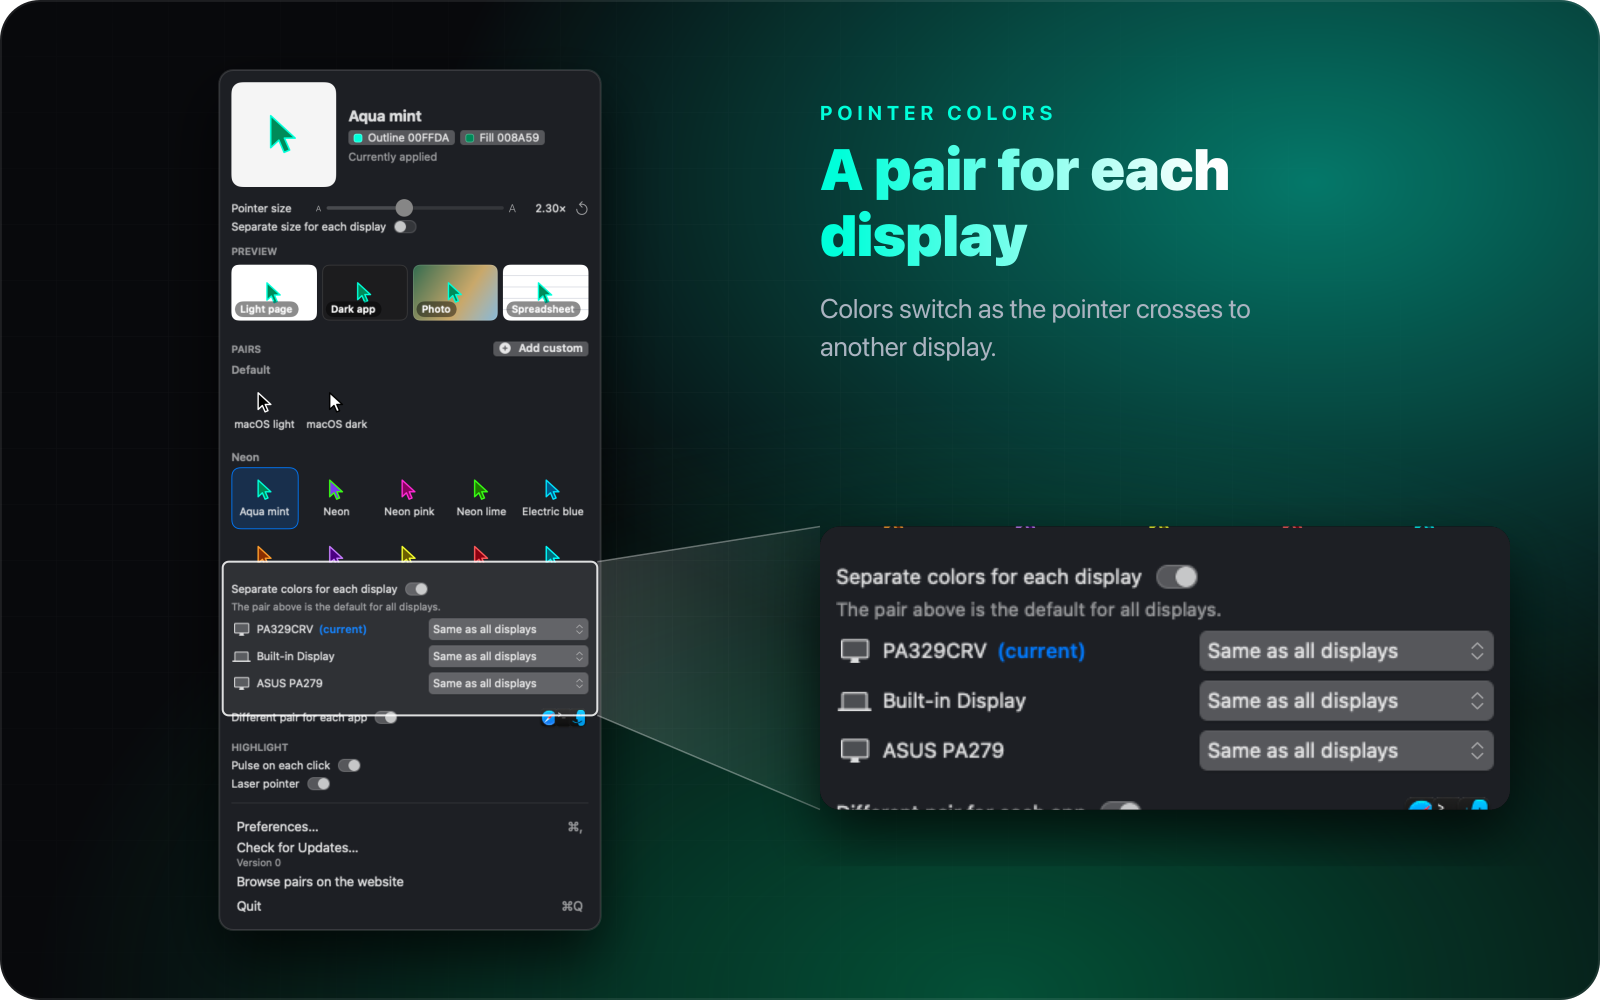
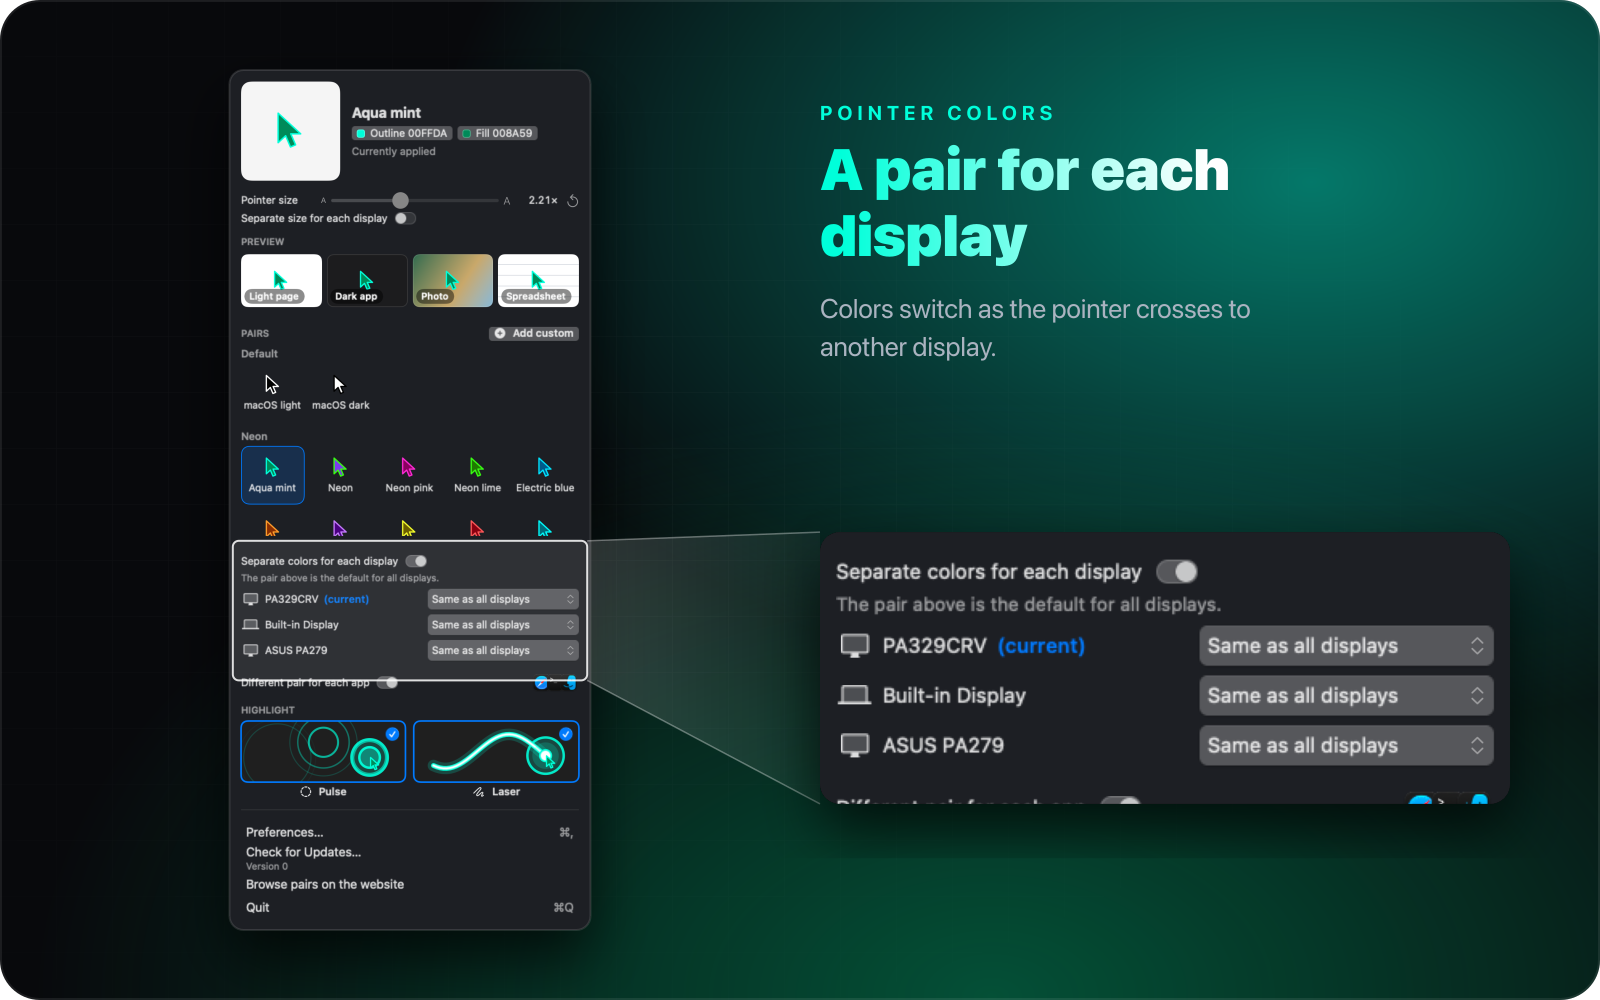
Menu: the pulse and the laser as pictures to click, like in Preferences
The menu's Highlight section shows the same pulse and laser pictures as Preferences ›
Highlight, smaller, each its own switch, in place of the two switches. The menu's feature
screenshots are retaken, and the Highlight caption says to click a picture.

Changed region(s): [[0.125, 0.062, 0.4688, 0.93], [0.4688, 0.558, 0.9375, 0.837], [0.3125, 0.186, 0.375, 0.217]]

diff --git a/mac/Sources/PointerColors/Views/MenuContentView.swift b/mac/Sources/PointerColors/Views/MenuContentView.swift
@@ -47,7 +47,8 @@ struct MenuContentView: View {
                 .featureSpot("display-colors")
             AppColorsIndicator(automation: model.automation)
                 .disabled(model.needsFullDiskAccess)
-            HighlightMenuSection(highlight: model.highlight).featureSpot("menu-highlight")
+            HighlightMenuSection(highlight: model.highlight, pair: model.selectedPair, pointerScale: model.scale,
+                                 scale: scale).featureSpot("menu-highlight")
             Divider()
             footer
         }
@@ -294,45 +295,21 @@ private struct PairTile: View {
     }
 }
 
-/// Pulse and laser switches in the menu, styled like its other switches; both can be on. The
+/// Pictures of the pulse and the laser side by side, each its own switch; both can be on. The
 /// details are in Preferences › Highlight.
 private struct HighlightMenuSection: View {
     let highlight: PointerHighlight
+    let pair: PointerPair
+    let pointerScale: Double
+    let scale: CGFloat
 
     var body: some View {
         VStack(alignment: .leading, spacing: 6) {
             Text("HIGHLIGHT").appFont(.caption2, weight: .semibold).foregroundStyle(.secondary)
-            ForEach(HighlightEffect.allCases) { effect in
-                Toggle(effect.menuTitle, isOn: Binding(get: { highlight.isOn(effect) },
-                                                       set: { highlight.setOn($0, effect) }))
-                    .toggleStyle(.switch).controlSize(.mini)
-                    .appFont(.caption)
-                    .help(effect.menuHelp)
-            }
+            HighlightPreviewCards(highlight: highlight,
+                                  style: HighlightStyle(settings: highlight, pair: pair, pointerScale: pointerScale),
+                                  pair: pair, imageHeight: 64 * scale)
         }
-    }
-}
-
-private extension HighlightEffect {
-    var menuTitle: String {
-        self == .pulse ? String(localized: "Pulse on each click") : String(localized: "Laser pointer")
-    }
-
-    var menuHelp: String {
-        self == .pulse ? String(localized: "A ring where you click")
-                       : String(localized: "A glowing dot, and a trail as you drag")
-    }
-}
-
-/// Marks a build made on this Mac rather than downloaded from GitHub.
-private struct LocalBuildTag: View {
-    var body: some View {
-        Text("LOCAL")
-            .appFont(.caption2, weight: .bold)
-            .foregroundStyle(.white)
-            .padding(.horizontal, 5).padding(.vertical, 1)
-            .background(Capsule().fill(.orange))
-            .help(BuildInfo.current.localLabel ?? "")
     }
 }
 
@@ -425,5 +402,17 @@ private struct DisplaySizeRow: View {
                 .accessibilityLabel("Reset pointer size to default")
             }
         }
+    }
+}
+
+/// Marks a build made on this Mac rather than downloaded from GitHub.
+private struct LocalBuildTag: View {
+    var body: some View {
+        Text("LOCAL")
+            .appFont(.caption2, weight: .bold)
+            .foregroundStyle(.white)
+            .padding(.horizontal, 5).padding(.vertical, 1)
+            .background(Capsule().fill(.orange))
+            .help(BuildInfo.current.localLabel ?? "")
     }
 }

diff --git a/mac/Sources/PointerColors/Views/HighlightPreviewCards.swift b/mac/Sources/PointerColors/Views/HighlightPreviewCards.swift
@@ -6,6 +6,8 @@ struct HighlightPreviewCards: View {
     let highlight: PointerHighlight
     let style: HighlightStyle
     let pair: PointerPair
+    /// The pictures' height: shorter in the menu than in Preferences.
+    var imageHeight: CGFloat = 96
 
     var body: some View {
         HStack(spacing: 10) {
@@ -18,7 +20,7 @@ struct HighlightPreviewCards: View {
         return Button { highlight.setOn(!isOn, effect) } label: {
             VStack(spacing: 4) {
                 HighlightPreviewImage(kind: effect, style: style, pair: pair)
-                    .frame(height: 96)
+                    .frame(height: imageHeight)
                     .opacity(isOn ? 1 : 0.45)
                     .clipShape(RoundedRectangle(cornerRadius: 8))
                     .overlay {
